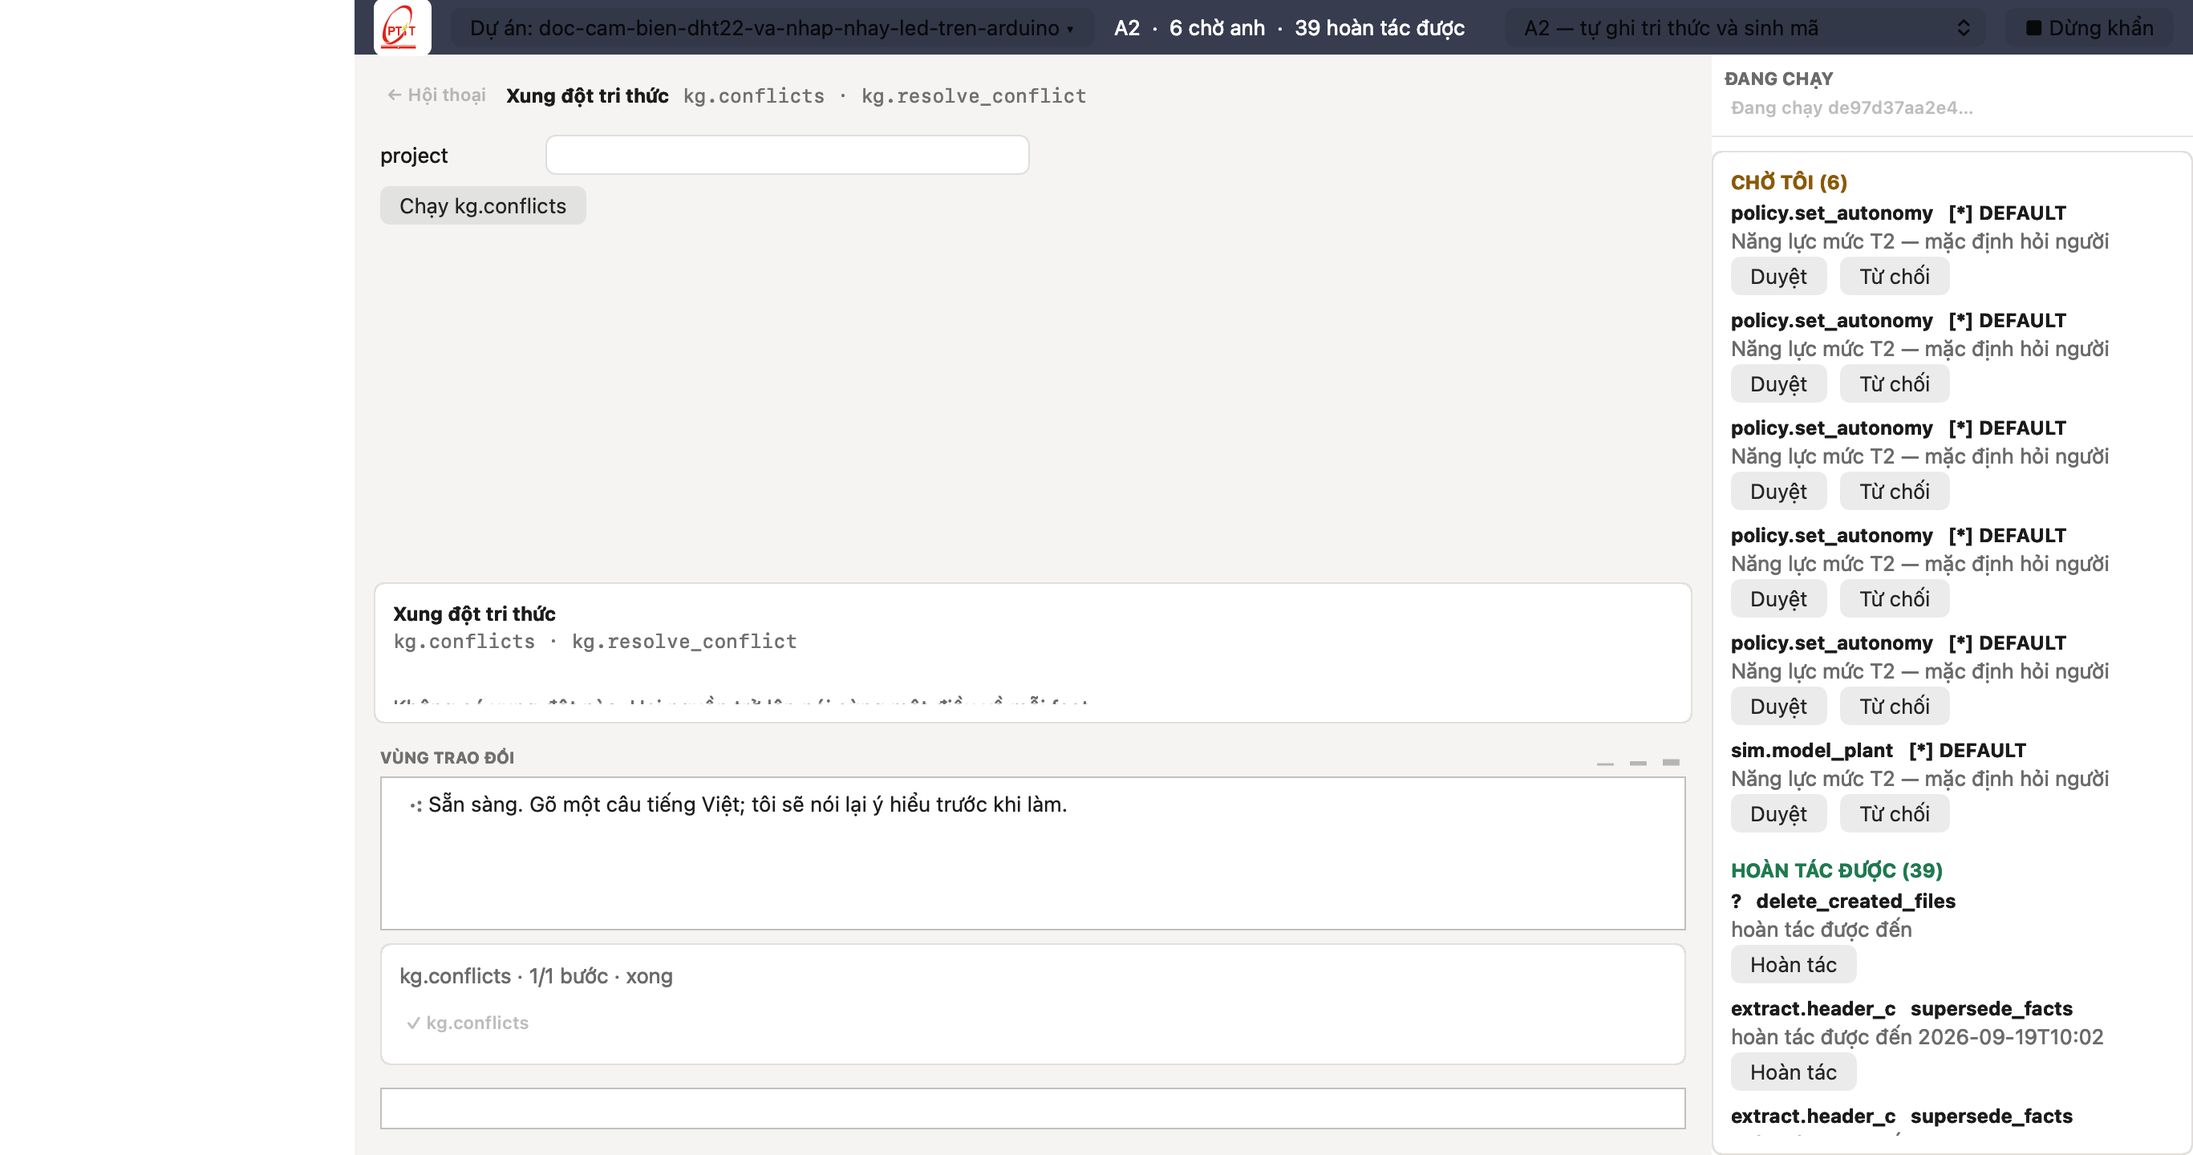
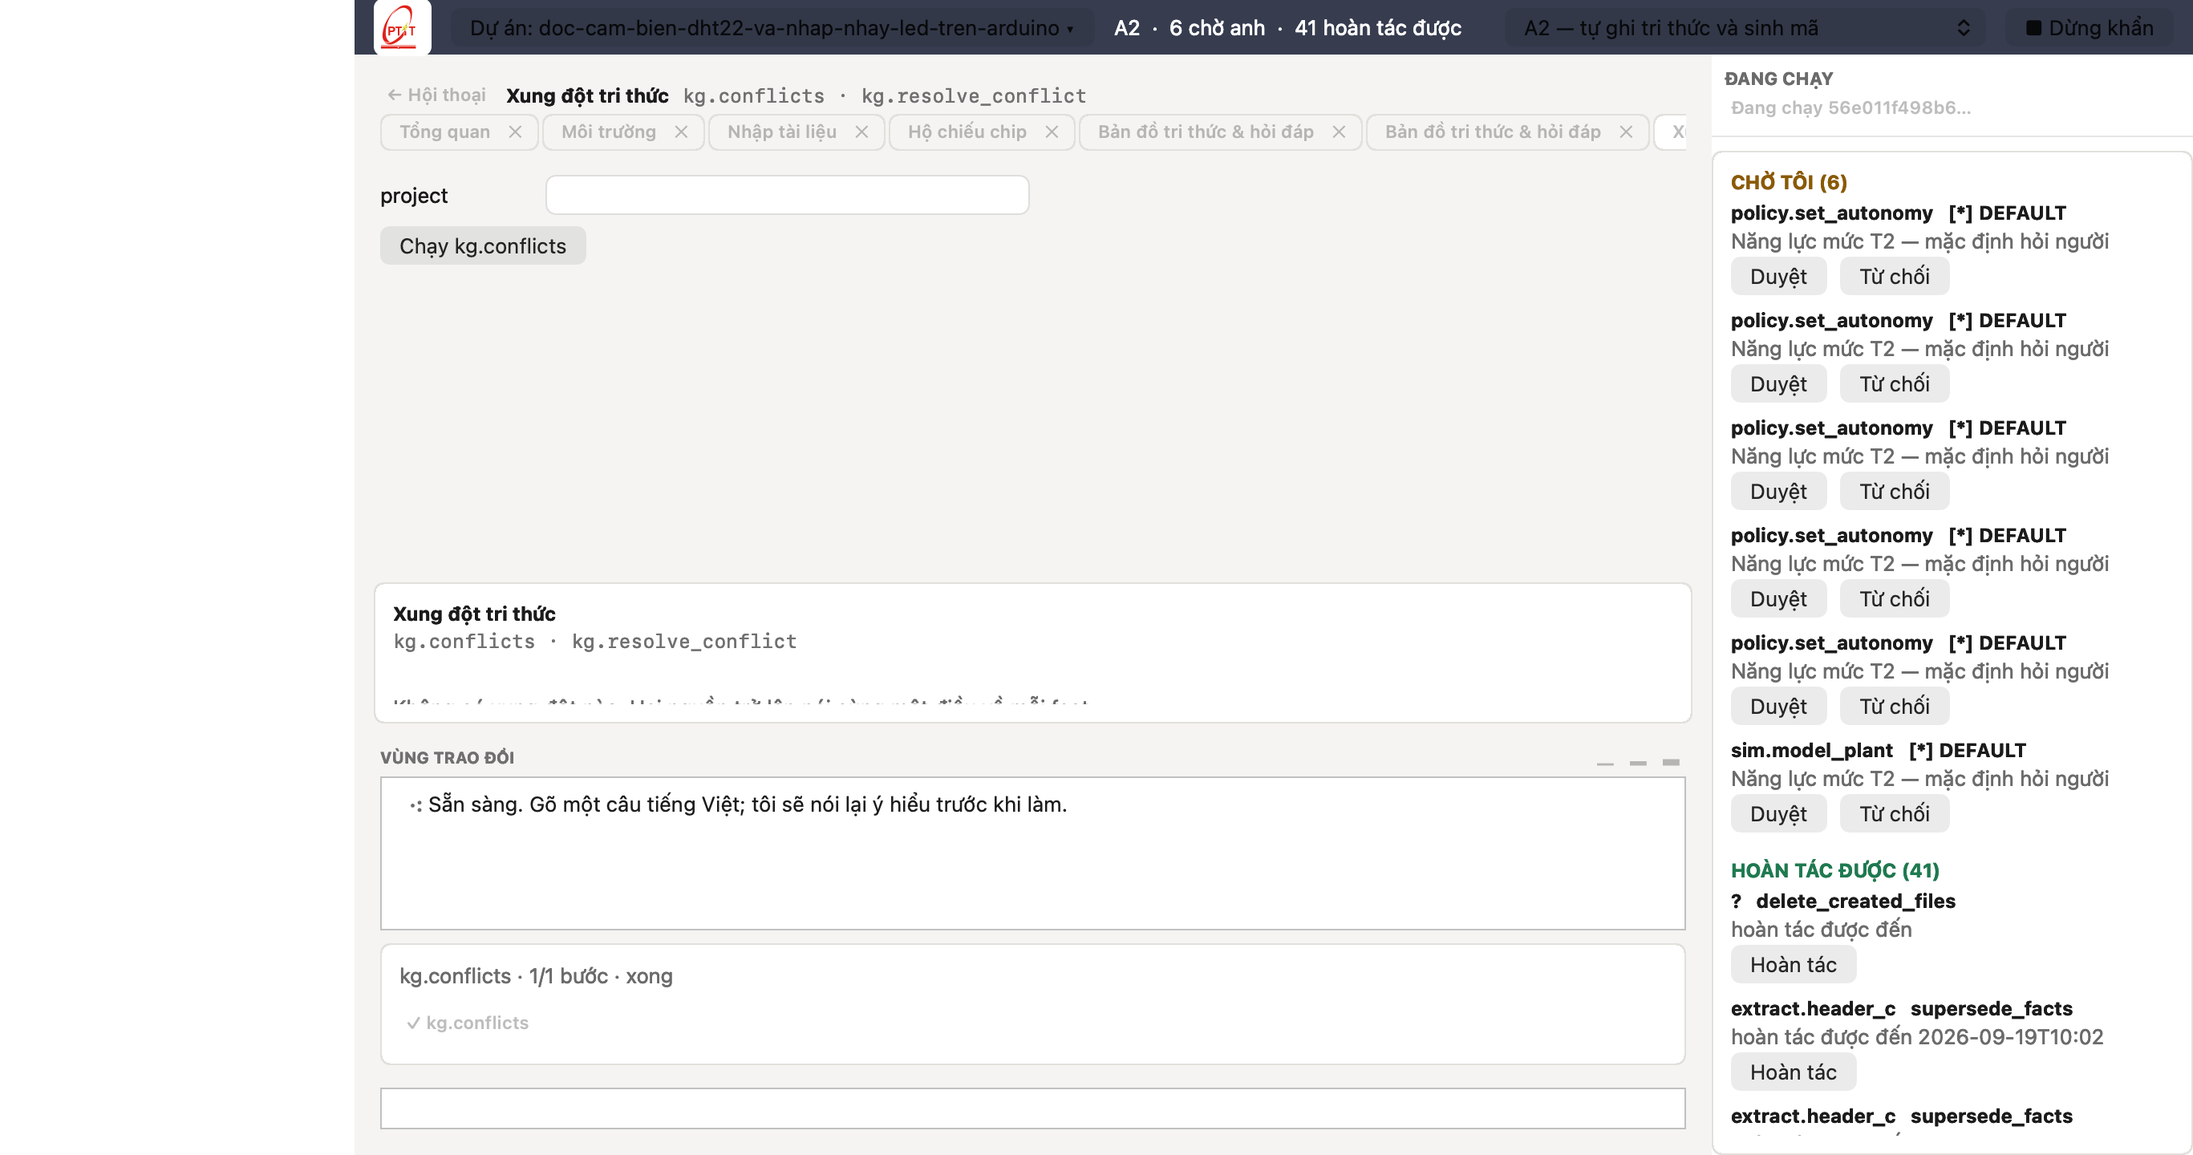
[DEV-129] thanh tab vùng làm việc (§2C.1) — dấu vết của dãy màn tác tử vừa đi qua
Đọc: docs/EIDE_UI_Demo_v2.html; UXC-31 §2C.1–2C.2; UXD-13 v2.0 §3.1.

Trước thay đổi này, mở một màn là THAY màn đang xem. Với một bảng điều khiển
thì đúng. Nhưng EIDE có một tác tử TỰ mở màn theo việc nó đang làm (NT2), nên
trong một lượt chạy tám bước người dùng bị kéo qua bốn năm màn — và muốn quay
lại thứ đang đọc dở thì phải nhớ nó tên gì rồi tự tìm trên cột điều hướng.

Tab biến dãy màn ấy thành một dấu vết bấm lại được: nó là bộ nhớ ngắn hạn của
phiên làm việc, không phải một chỗ chứa trạng thái.

- Mở lại màn đã có tab thì CHUYỂN tiêu điểm, không thêm tab thứ hai.
- Đóng tab đang xem thì mở tab kế; hết tab thì về hội thoại — không để vùng
  làm việc trống trong khi thanh tab vẫn còn.
- Nhãn tab lấy từ MỘT nguồn (bảng điều hướng). Hai đường mở màn vốn truyền
  hai loại tên, nên thanh tab hiện ba kiểu chữ cạnh nhau: "ReqArch (Yêu cầu &
  kiến trúc)", "Môi trường", "Passport (Hộ chiếu chip)".

1625 pytest · 3112 Swift · self-test 7/7 · vòng giao diện 16/16.

Claude-Session: https://claude.ai/code/session_018cZjBG7cmnMExo5Db3jwh1

diff --git a/apps/geditor/Sources/EIDEKit/EideThanhTab.swift b/apps/geditor/Sources/EIDEKit/EideThanhTab.swift
@@ -1,0 +1,127 @@
+import AppKit
+
+/// **Thanh tab của vùng làm việc** — UXC-31 §2C.1, theo bản demo UX v2.0.
+///
+/// ## Vì sao một IDE cần tab mà một bảng điều khiển thì không
+///
+/// Trước thay đổi này, mở một màn là THAY màn đang xem. Với một bảng điều khiển thì đúng: mỗi
+/// lần chỉ nhìn một thứ. Nhưng EIDE có một tác tử tự mở màn theo việc nó đang làm (NT2), nên
+/// trong một lượt chạy tám bước người dùng bị kéo qua bốn năm màn — và khi muốn quay lại thứ
+/// vừa đọc dở, họ phải nhớ nó tên gì rồi tự tìm trên cột điều hướng.
+///
+/// Tab biến dãy màn tác tử vừa đi qua thành một dấu vết bấm lại được. Đó cũng là lý do bản demo
+/// đặt tab ở đây chứ không phải ở chỗ khác: nó là bộ nhớ ngắn hạn của phiên làm việc.
+///
+/// ## Không giữ trạng thái của màn
+///
+/// Thanh này chỉ giữ DANH SÁCH tên; nội dung từng màn vẫn nằm trong khung nhìn của nó, vẫn do
+/// sự kiện sổ cái nuôi. Đóng một tab không xoá gì — mở lại là thấy đúng thứ cũ.
+public final class EideThanhTab: NSView {
+
+    /// Người chọn một tab.
+    public var onChon: ((String) -> Void)?
+    /// Người đóng một tab.
+    public var onDong: ((String) -> Void)?
+
+    /// Các tab đang mở, theo thứ tự mở. Khoá là TIỀN TỐ màn (`Passport`), không phải nhãn.
+    public private(set) var tab: [(tien: String, nhan: String)] = []
+    /// Tab đang hoạt động.
+    public private(set) var dangMo: String?
+
+    private let hang = NSStackView()
+    private let cuon = NSScrollView()
+
+    public override func accessibilityRole() -> NSAccessibility.Role? { .tabGroup }
+
+    public init() {
+        super.init(frame: .zero)
+        hang.orientation = .horizontal
+        hang.alignment = .centerY
+        hang.spacing = 2
+        cuon.contentView = KhungLat()
+        cuon.documentView = hang
+        cuon.hasHorizontalScroller = false
+        cuon.drawsBackground = false
+        cuon.translatesAutoresizingMaskIntoConstraints = false
+        addSubview(cuon)
+        hang.translatesAutoresizingMaskIntoConstraints = false
+        NSLayoutConstraint.activate([
+            cuon.topAnchor.constraint(equalTo: topAnchor),
+            cuon.leadingAnchor.constraint(equalTo: leadingAnchor),
+            cuon.trailingAnchor.constraint(equalTo: trailingAnchor),
+            cuon.bottomAnchor.constraint(equalTo: bottomAnchor),
+            hang.leadingAnchor.constraint(equalTo: cuon.contentView.leadingAnchor),
+            hang.topAnchor.constraint(equalTo: cuon.contentView.topAnchor),
+            hang.bottomAnchor.constraint(equalTo: cuon.contentView.bottomAnchor),
+        ])
+    }
+
+    @available(*, unavailable)
+    required init?(coder: NSCoder) { fatalError() }
+
+    /// Mở (hoặc chuyển tới) một tab. Không trùng: mở lại màn đang có tab thì chỉ chuyển tiêu điểm.
+    public func mo(tien: String, nhan: String) {
+        if !tab.contains(where: { $0.tien == tien }) {
+            tab.append((tien, nhan))
+        }
+        dangMo = tien
+        _ve()
+    }
+
+    /// Đóng một tab. Trả về tab nên mở tiếp, `nil` nếu không còn tab nào.
+    @discardableResult
+    public func dong(tien: String) -> String? {
+        tab.removeAll { $0.tien == tien }
+        if dangMo == tien { dangMo = tab.last?.tien }
+        _ve()
+        return dangMo
+    }
+
+    public func dongHet() {
+        tab.removeAll()
+        dangMo = nil
+        _ve()
+    }
+
+    private func _ve() {
+        for v in hang.arrangedSubviews { hang.removeArrangedSubview(v); v.removeFromSuperview() }
+        isHidden = tab.isEmpty
+        for t in tab {
+            let o = NSStackView()
+            o.orientation = .horizontal
+            o.spacing = 2
+            o.edgeInsets = NSEdgeInsets(top: 2, left: 8, bottom: 2, right: 6)
+            o.wantsLayer = true
+            let hoat = t.tien == dangMo
+            o.layer?.backgroundColor = (hoat ? EideToken.Mau.surface : EideToken.Mau.bg).cgColor
+            o.layer?.cornerRadius = 6
+            o.layer?.borderWidth = 1
+            o.layer?.borderColor = EideToken.Mau.border.cgColor
+
+            let b = NSButton(title: t.nhan, target: self, action: #selector(_chon(_:)))
+            b.bezelStyle = .inline
+            b.font = hoat ? NSFont.boldSystemFont(ofSize: 12) : EideToken.fontUI
+            b.contentTintColor = hoat ? EideToken.Mau.text : EideToken.Mau.muted
+            b.identifier = NSUserInterfaceItemIdentifier(t.tien)
+            o.addArrangedSubview(b)
+
+            let x = NSButton(title: "✕", target: self, action: #selector(_dong(_:)))
+            x.bezelStyle = .inline
+            x.font = EideToken.fontUI
+            x.contentTintColor = EideToken.Mau.faint
+            x.identifier = NSUserInterfaceItemIdentifier(t.tien)
+            x.setAccessibilityLabel("Đóng \(t.nhan)")
+            o.addArrangedSubview(x)
+
+            hang.addArrangedSubview(o)
+        }
+    }
+
+    @objc private func _chon(_ n: NSButton) {
+        if let t = n.identifier?.rawValue { onChon?(t) }
+    }
+
+    @objc private func _dong(_ n: NSButton) {
+        if let t = n.identifier?.rawValue { onDong?(t) }
+    }
+}

diff --git a/apps/geditor/Sources/EIDEKit/EidePanel.swift b/apps/geditor/Sources/EIDEKit/EidePanel.swift
@@ -183,6 +183,8 @@ public final class EidePanel: NSView {
     private let hanhTrinh = FlowMapView()
     private let chinhSach = ChinhSachView()
     private let thanhMan = NSStackView()
+    /// Thanh tab của vùng làm việc — UXC-31 §2C.1.
+    public let thanhTab = EideThanhTab()
     /// Thanh nhỏ trên vùng trao đổi: nhãn + ba nút đổi chiều cao (UXC-31 §2D.3).
     private let thanhHoiThoai = NSStackView()
     /// Năng lực đứng sau màn đang mở — hiện cạnh tên màn (UXC-31 §2C.4).
@@ -751,6 +753,7 @@ public final class EidePanel: NSView {
         thanhMan.isHidden = false
         tenMan.stringValue = ten
         nangLucMan.stringValue = _nangLucCuaMan(ten)
+        thanhTab.mo(tien: _tienCuaMan(ten), nhan: Self.nhanMan(_tienCuaMan(ten)))
         if !thamSo.isEmpty {
             // Điền sẵn ô nhập của màn, KHÔNG tự bấm Enter: người gõ "/passport.query stm32"
             // có thể muốn sửa lại trước khi tra, và một màn tự chạy ngay lúc mở là một màn
@@ -863,6 +866,7 @@ public final class EidePanel: NSView {
         // phụ ở `hienKhung` (đường gõ `/ns.name`), nên dòng phụ tồn tại, có mã, và không bao
         // giờ hiện ra cho người bấm chuột.
         nangLucMan.stringValue = _nangLucCuaMan(k.tien)
+        thanhTab.mo(tien: k.tien, nhan: Self.nhanMan(k.tien))
         k.v.chuaNap("Đang đọc trạng thái…")
         _dungONhap(choMan: k.tien, khungNhin: k.v)
         // Năng lực tự nạp TRƯỚC, rồi mới tới hai màn nạp bằng phương thức daemon.
@@ -1511,6 +1515,17 @@ public final class EidePanel: NSView {
         bangMan.first { ten.hasPrefix($0.tien) }?.tien ?? ten
     }
 
+    /// Nhãn tiếng Việt của một màn, tra từ bảng điều hướng.
+    ///
+    /// MỘT nguồn cho tên tab. Hai đường mở màn truyền hai loại tên — đường gõ `/ns.name` truyền
+    /// tên đầy đủ trong `screens.json` ("Passport (Hộ chiếu chip)"), đường bấm cột điều hướng
+    /// truyền nhãn ("Môi trường") — nên thanh tab hiện ba kiểu chữ cạnh nhau, đo được 18/09/2026.
+    /// Tab là chỗ người dùng quét mắt để tìm lại màn vừa đọc; ba kiểu đặt tên trong một hàng làm
+    /// việc quét ấy chậm đi mà không mang thêm thông tin nào.
+    public static func nhanMan(_ tien: String) -> String {
+        EideDieuHuong.NHOM.flatMap(\.man).first { $0.tien == tien }?.nhan ?? tien
+    }
+
     @objc private func _bamCaoHoiThoai(_ n: NSButton) {
         guard let v = n.identifier?.rawValue, let px = Double(v),
               let tt = CaoHoiThoai(rawValue: CGFloat(px)) else { return }
@@ -1519,6 +1534,7 @@ public final class EidePanel: NSView {
     }
 
     @objc private func dongMan() {
+        thanhTab.dongHet()
         for k in bangMan { k.v.isHidden = true }
         banDo.isHidden = true
         manNgoai?.isHidden = true
@@ -1665,6 +1681,24 @@ public final class EidePanel: NSView {
         thanhHoiThoai.translatesAutoresizingMaskIntoConstraints = false
         addSubview(thanhHoiThoai)
 
+        thanhTab.onChon = { [weak self] tien in
+            guard let self else { return }
+            self.nguoiVuaChonMan()
+            _ = self._moTheoTenMan(tien, thamSo: "")
+        }
+        thanhTab.onDong = { [weak self] tien in
+            guard let self else { return }
+            // Đóng tab đang xem thì mở tab kế; hết tab thì về hội thoại. KHÔNG để vùng làm việc
+            // trống mà thanh tab vẫn còn — người dùng sẽ bấm vào một tab không mở gì.
+            if let ke = self.thanhTab.dong(tien: tien) {
+                _ = self._moTheoTenMan(ke, thamSo: "")
+            } else {
+                self.dongMan()
+            }
+        }
+        thanhTab.translatesAutoresizingMaskIntoConstraints = false
+        addSubview(thanhTab)
+
         vungPhai.dangChay.onChon = { [weak self] ma in
             guard let self else { return }
             self.nguoiVuaChonMan()
@@ -1706,7 +1740,11 @@ public final class EidePanel: NSView {
             thanhMan.topAnchor.constraint(equalTo: thanhTuChu.bottomAnchor, constant: g),
             thanhMan.leadingAnchor.constraint(equalTo: leadingAnchor, constant: g),
 
-            oNhap.topAnchor.constraint(equalTo: thanhMan.bottomAnchor, constant: g),
+            thanhTab.topAnchor.constraint(equalTo: thanhMan.bottomAnchor, constant: 2),
+            thanhTab.leadingAnchor.constraint(equalTo: leadingAnchor, constant: g),
+            thanhTab.trailingAnchor.constraint(equalTo: vungPhai.leadingAnchor, constant: -g),
+
+            oNhap.topAnchor.constraint(equalTo: thanhTab.bottomAnchor, constant: g),
             oNhap.leadingAnchor.constraint(equalTo: leadingAnchor, constant: g),
             oNhap.trailingAnchor.constraint(lessThanOrEqualTo: vungPhai.leadingAnchor,
                                             constant: -g),

diff --git a/apps/geditor/Tests/EIDEKitTests/EideBoCucMoiTests.swift b/apps/geditor/Tests/EIDEKitTests/EideBoCucMoiTests.swift
@@ -416,3 +416,47 @@ final class EideCaoHoiThoaiTests: XCTestCase {
         }
     }
 }
+
+// MARK: - Thanh tab vùng làm việc (UXC-31 §2C.1–2C.2)
+
+final class EideThanhTabTests: XCTestCase {
+
+    @MainActor
+    func testMO_LAI_mot_man_KHONG_tao_tab_thu_hai() {
+        // Tác tử tự mở màn theo việc nó làm (NT2), nên trong một chuỗi tám bước cùng một màn có
+        // thể được mở ba bốn lần. Mỗi lần một tab thì thanh tab thành một danh sách trùng lặp,
+        // và nó thôi là bộ nhớ ngắn hạn của phiên làm việc.
+        let tb = EideThanhTab()
+        tb.mo(tien: "Passport", nhan: "Hộ chiếu chip")
+        tb.mo(tien: "Env", nhan: "Môi trường")
+        tb.mo(tien: "Passport", nhan: "Hộ chiếu chip")
+        XCTAssertEqual(tb.tab.map(\.tien), ["Passport", "Env"])
+        XCTAssertEqual(tb.dangMo, "Passport", "mở lại phải CHUYỂN tiêu điểm, không thêm tab")
+    }
+
+    @MainActor
+    func testDONG_tab_dang_xem_thi_MO_tab_ke_chu_khong_de_trong() {
+        // Vùng làm việc trống mà thanh tab vẫn còn là trạng thái người dùng bấm vào một tab và
+        // không thấy gì mở ra.
+        let tb = EideThanhTab()
+        tb.mo(tien: "Main", nhan: "Tổng quan")
+        tb.mo(tien: "Env", nhan: "Môi trường")
+        let ke = tb.dong(tien: "Env")
+        XCTAssertEqual(ke, "Main")
+        XCTAssertEqual(tb.dangMo, "Main")
+
+        XCTAssertNil(tb.dong(tien: "Main"), "đóng tab cuối thì không còn tab nào để mở")
+        XCTAssertTrue(tb.tab.isEmpty)
+        XCTAssertTrue(tb.isHidden, "không tab nào thì thanh tab phải biến mất, không để một dải trống")
+    }
+
+    @MainActor
+    func testNHAN_TAB_lay_tu_MOT_nguon_duy_nhat() {
+        // Hai đường mở màn từng truyền hai loại tên — tên đầy đủ trong screens.json và nhãn
+        // tiếng Việt — nên thanh tab hiện ba kiểu chữ cạnh nhau (đo 18/09/2026).
+        for m in EideDieuHuong.NHOM.flatMap(\.man) {
+            XCTAssertEqual(EidePanel.nhanMan(m.tien), m.nhan, "nhãn tab của \(m.tien) lệch bảng")
+        }
+        XCTAssertEqual(EidePanel.nhanMan("KhongCoMan"), "KhongCoMan", "màn lạ thì trả chính tiền tố")
+    }
+}

diff --git a/docs/nhat-ky/2026-09-17-vong-giao-dien.md b/docs/nhat-ky/2026-09-17-vong-giao-dien.md
@@ -6,105 +6,105 @@ Dự án: /Users/congvt/eide/doc-cam-bien-dht22-va-nhap-nhay-led-tren-arduino
 ## 1. Mở dự án — cửa sổ dựng xong, cột điều hướng có mặt
 
 - ✅ dự án `doc-cam-bien-dht22-va-nhap-nhay-led-tren-arduino` · panel sẵn sàng
-- 3000 ms
+- 3001 ms
 - cửa sổ 720 pt · Auto Layout đòi 286 pt
 - ảnh: `buoc-01.png`
 
 ## 2. Tổng quan dự án — bấm mục đầu trên sidebar
 
 - ✅ 1 dòng
-- 3001 ms
+- 3006 ms
 - cửa sổ 720 pt · Auto Layout đòi 286 pt
 - ảnh: `buoc-02.png`
 
 ## 3. Môi trường — máy này có gì
 
 - ✅ 7 dòng · 1 bảng
-- 4001 ms
+- 4007 ms
 - cửa sổ 720 pt · Auto Layout đòi 286 pt
 - ảnh: `buoc-03.png`
 
 ## 4. Nhập tài liệu — trích fact từ một header C
 
 - ✅ 1 dòng
-- 7003 ms
+- 7012 ms
 - cửa sổ 720 pt · Auto Layout đòi 286 pt
 - ảnh: `buoc-04.png`
 
 ## 5. Hộ chiếu chip — tra fact vừa trích
 
 - ✅ 290 dòng · 1 bảng
-- 4001 ms
+- 4012 ms
 - cửa sổ 720 pt · Auto Layout đòi 286 pt
 - ảnh: `buoc-05.png`
 
 ## 6. Bản đồ tri thức — đồ thị dựng từ store
 
 - ✅ 2 dòng · 1 cây
-- 5002 ms
+- 5024 ms
 - cửa sổ 720 pt · Auto Layout đòi 286 pt
 - ảnh: `buoc-06.png`
 
 ## 7. Xung đột tri thức — hai nguồn nói khác nhau
 
 - ✅ 0 dòng
-- 4000 ms
+- 4016 ms
 - cửa sổ 720 pt · Auto Layout đòi 286 pt
 - ảnh: `buoc-07.png`
 
 ## 8. Mã nguồn — mở một tệp, xem dấu tri thức ở lề
 
 - ✅ main.c · 0 dòng có fact · 11 dòng vi phạm constant-guard
-- 8020 ms
+- 8019 ms
 - cửa sổ 720 pt · Auto Layout đòi 286 pt
 - ảnh: `buoc-08.png`
 
 ## 9. Mô phỏng — chạy firmware thật nếu dự án có
 
 - ✅ 7 dòng · 1 khối mã
-- 92003 ms
+- 92023 ms
 - cửa sổ 720 pt · Auto Layout đòi 286 pt
 - ảnh: `buoc-09.png`
 
 ## 10. Ô LỆNH gõ được NGAY TRÊN một màn chuyên đề
 
-- ✅ gõ được CẢ trên màn chuyên đề lẫn ở hội thoại · 8 lượt
-- 89007 ms
+- ✅ gõ được CẢ trên màn chuyên đề lẫn ở hội thoại · 9 lượt
+- 89030 ms
 - cửa sổ 720 pt · Auto Layout đòi 286 pt
 - ảnh: `buoc-10.png`
 
 ## 11. Tác tử tự MỞ và FOCUS đúng màn của việc nó đang làm
 
 - ✅ đang ở `Env` → tác tử chạy `passport.query` → tự mở `Passport`
-- 36006 ms
+- 36017 ms
 - cửa sổ 720 pt · Auto Layout đòi 286 pt
 - ảnh: `buoc-11.png`
 
 ## 12. BA ĐIỀU KIỆN: tác tử sửa mã → mở màn mã, mà hội thoại VẪN hiện
 
 - ✅ mở màn `Code` · hội thoại vẫn hiện
-- 35005 ms
+- 35015 ms
 - cửa sổ 720 pt · Auto Layout đòi 286 pt
 - ảnh: `buoc-12.png`
 
 ## 13. Nhật ký — mọi việc vừa làm có vào sổ cái không
 
 - ✅ 1518 dòng
-- 5001 ms
+- 5012 ms
 - cửa sổ 720 pt · Auto Layout đòi 286 pt
 - ảnh: `buoc-13.png`
 
 ## 14. Mô hình & chi phí — tiêu bao nhiêu trong vòng này
 
 - ✅ 5 dòng
-- 4001 ms
+- 4014 ms
 - cửa sổ 720 pt · Auto Layout đòi 286 pt
 - ảnh: `buoc-14.png`
 
 ## 15. Hành trình & cổng — chính sách đã quyết những gì
 
 - ✅ 11 dòng
-- 4001 ms
+- 4017 ms
 - cửa sổ 720 pt · Auto Layout đòi 286 pt
 - ảnh: `buoc-15.png`
 
@@ -117,4 +117,4 @@ Dự án: /Users/congvt/eide/doc-cam-bien-dht22-va-nhap-nhay-led-tren-arduino
 
 ---
 
-**16/16 bước chạy được** · tổng 310.3 s
+**16/16 bước chạy được** · tổng 310.6 s
